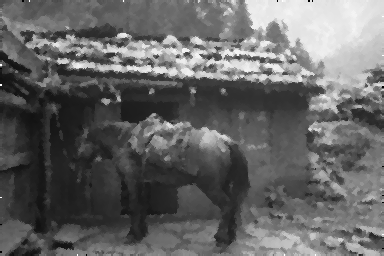
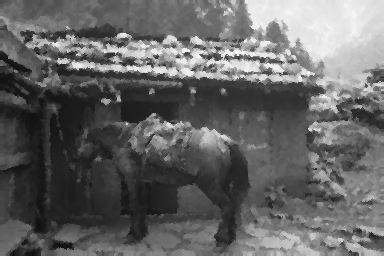
fix border

diff --git a/adaptiveMedianFilter.py b/adaptiveMedianFilter.py
@@ -10,21 +10,22 @@ from PIL import Image
 #path = "tiger.png" 
 #path = "cat.png"
 #path = "horse.png"
-path = "input/ship.png"
+#path = "tiger2.png"
+path = "input/Ship.png"
 img = Image.open(path)
-img = img.convert('LA');
+img = img.convert('LA')
 width, height = img.size
 newimg = img.copy()
 
 def getName():
-	name = '';
+	name = ''
 	for i in range(6,len(path)):
 		name = name+path[i]
 	#print(name)
 	return name
 def AdaptiveMedianFilter(sMax):
 	filterSize = 3
-	borderSize = sMax // 2;
+	borderSize = sMax // 2
 	imgMax = img.getpixel((0,0))
 	mid = (filterSize*filterSize)//2
 	for i in range(width):
@@ -60,31 +61,30 @@ def AdaptiveMedianFilter(sMax):
 
 	        newimg.putpixel((i,j),(result))
 
-def renoiseInBorder():
-	borderSize = 1
+def renoiseInBorder(borderSize):
 	for i in range(1,width):
 	    for j in range(borderSize):
-	        newimg.putpixel((i,j),newimg.getpixel((i,borderSize)));
-
-	for i in range(1,width):
-	    for j in range(borderSize):
-	        newimg.putpixel((i,height-j-1),newimg.getpixel((i,height-borderSize-1)));
-
+	        newimg.putpixel((i,j),newimg.getpixel((i,borderSize)))
+	        newimg.putpixel((i,height-j-1),newimg.getpixel((i,height-borderSize-1)))
+			
 	for j in range(height):
 	    for i in range(borderSize):
-	        newimg.putpixel((i,j),newimg.getpixel((borderSize,j)));
+	        newimg.putpixel((i,j),newimg.getpixel((borderSize,j)))
+	        newimg.putpixel((width -i-1,j),newimg.getpixel((width-borderSize-1,j)))
 	        
-	for j in range(height):
-	    for i in range(borderSize):
-	        newimg.putpixel((width - i-1,j),newimg.getpixel((width-borderSize-1,j)));
 
 
 # main
-img.show()
-for i in range(9,1,-2):
+img.show("input")
+for i in range(7,1,-2):
 	img = newimg.copy()
 	#print(i)
 	AdaptiveMedianFilter(i)
-renoiseInBorder()
-newimg.show()
+	if i==5:
+		renoiseInBorder(2)
+
+
+
+renoiseInBorder(1)
+newimg.show("output")
 newimg.save("output/output_"+getName())
